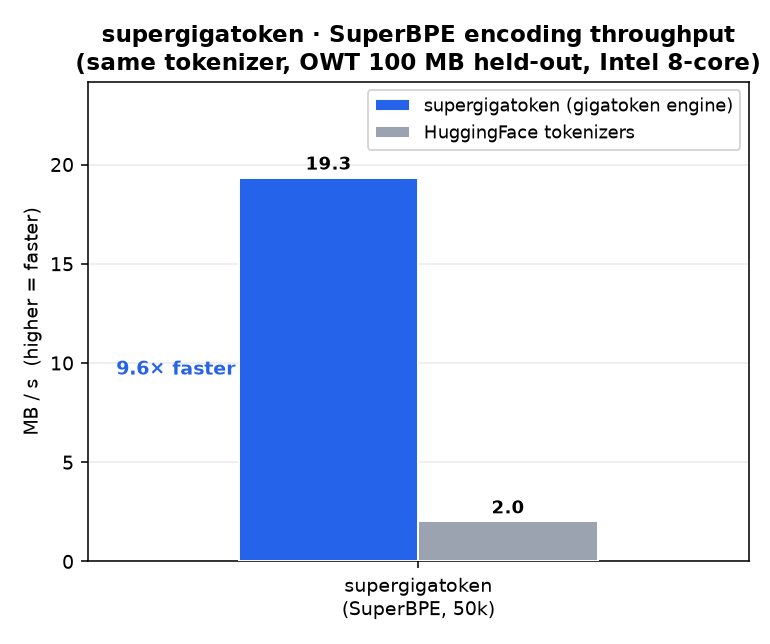
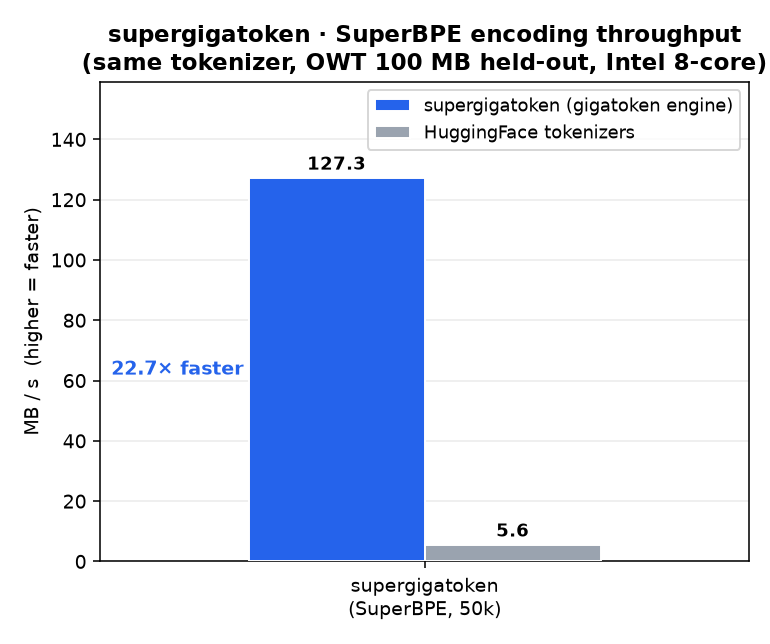
Refresh the SuperBPE throughput numbers after the two-level fixes
Regenerated through the existing generators (throughput.py --repeats 5
--released, report.py, plot_readme.py), never by hand. The Axis 2 table had
carried pre-two-level numbers since v1.

  ours_superbpe   19.34 -> 127.32 MB/s   (9.57x -> 22.7x vs HF)

Token counts are unchanged on the 99.7 MB slice -- 17603858 for ours_superbpe,
22194723 for ours_bpe, both exactly the v1 values -- which is an end-to-end
identity check on two orders of magnitude more text than the unit
differentials cover.

ours_bpe also reads 1849.95 MB/s against v1's 1005.75. Nothing in this round
touches the subword path (the merge-core refactor is a signature change with
no new clippy warnings and an unchanged long-pretoken miss path), and an 84%
swing is far too large for it, so this is the v1 baseline having been taken
under different machine conditions rather than a speedup. Recorded as "no
regression", not as a gain.

The released 128k SuperBPE is still gigatoken-unencodable: its
Split("\p{N}{1,3}| ?[^\s\p{L}\p{N}]{2,}[\r\n/]*| +(?!\S)", Isolated) is a
genuine partial splitter that from_split_regexes does not map.

README: the hand-maintained Axis 2 table and the SuperBPE known issues now
describe the two-level mechanism, where the remaining ~15x to the subword
path sits (split about evenly between the levels), and the camelCase cap that
still limits the superbpe_stage1 scheme.

diff --git a/README.md b/README.md
@@ -57,9 +57,13 @@ supergigatoken fast-encodes a SuperBPE tokenizer via a new `Superword` pretokeni
 
 | Tokenizer | supergigatoken | HF tokenizers | speedup |
 |---|---:|---:|---:|
-| supergigatoken (SuperBPE, 50k) | 19.3 MB/s | 2.0 MB/s | **9.6×** |
+| supergigatoken (SuperBPE, 50k) | 127.3 MB/s | 5.6 MB/s | **22.7×** |
 
-Both bars encode the *same* tokenizer; they differ only in which engine does the work. Lifting whitespace pretokenization turns each document into one long pretoken, so SuperBPE encoding is inherently slower than gigatoken's cached GB/s subword path — but it is still ~10× faster than HuggingFace. (For reference, HuggingFace encodes the released 128k SuperBPE at ~2.9 MB/s; supergigatoken can't fast-encode that checkpoint yet because it ships a `Split`-regex pretokenizer the loader doesn't map to `Superword` — see [Known Issues](#known-issues).)
+Both bars encode the *same* tokenizer; they differ only in which engine does the work.
+
+Lifting whitespace pretokenization makes each document one long pretoken, which costs SuperBPE every mechanism gigatoken exists for — the pretoken cache never hits, the SIMD boundary scanners have nothing to find, and the merge heap runs over thousands of byte symbols. Most of that is recoverable, because merge priority is the token ID and stage-2 merges are appended after stage-1's: the merge table splits at a threshold into stage-1 merges that cannot span a stage-1 pretoken boundary and superword merges that can. So encoding runs in **two levels** — split at stage-1 boundaries and encode each unit through the ordinary cached GB/s path with the prefix merges, then run the full table over the resulting token stream, which is ~4.5× shorter than the byte sequence. Level 2 in turn only merges across the boundaries a merge can actually cross, which the merge table alone determines; on this corpus that cuts 51% of them and leaves runs averaging 2 symbols. Output is bit-identical to the one-long-pretoken path, which the differential tests assert over the whole slice.
+
+SuperBPE encoding is still ~15× off the cached subword path (1850 MB/s at the same vocab), so there is more to recover — level 1 and level 2 currently split the remaining cost about evenly. (For reference, HuggingFace encodes the released 128k SuperBPE at ~5.3 MB/s; supergigatoken can't fast-encode that checkpoint yet because it ships a `Split`-regex pretokenizer the loader doesn't map to `Superword` — see [Known Issues](#known-issues).)
 
 ### Train your own
 
@@ -358,7 +362,8 @@ Supergigatoken builds on gigatoken (the fast encoder) and SuperBPE (the two-stag
 
 ### SuperBPE-specific
 * The fast `Superword` encoder currently loads SuperBPE tokenizers exported with a `ByteLevel(use_regex=False)` pretokenizer. The released 128k SuperBPE ships an explicit `Split`-regex pretokenizer that isn't mapped to `Superword` yet, so gigatoken can't fast-encode it (HuggingFace-only for now).
-* SuperBPE encoding lifts whitespace pretokenization, so each document is one long pretoken and the per-word cache doesn't apply — it's ~10× faster than HuggingFace but well below gigatoken's GB/s subword path. SIMD acceleration of the superword scheme is future work.
+* SuperBPE encoding lifts whitespace pretokenization, so each document is one long pretoken. Two-level encoding recovers most of the cached path (~23× faster than HuggingFace) but is still ~15× below gigatoken's GB/s subword path, with the remaining cost split about evenly between the two levels. Level 1 pays for splitting through an iterator rather than the SIMD two-phase fill, which needs the glued stage-1 splitter to become a real pretokenizer scheme; that is the next lever.
+* The level-1 splitter glues the pretokenizer boundaries a sub-threshold merge could otherwise span (whitespace runs, apostrophes, digit runs). A hazard it doesn't cover is safe but slow — it lowers the derived threshold, which moves work from level 1 to level 2. The `superbpe_stage1` scheme is still capped that way by `camelCase` letter-run splits (`" Mc"|"C"`, `" You"|"Tube"`), which will matter for any tokenizer genuinely trained with the original stage-1 regex.
 * Stage-2 training is O(n) in unit length; training large vocabs on hundreds of MB is minutes-scale. Our stage 1 is locked to the GPT-2 regex and stage 2 uses line-bounded units, so results are *outcome*-comparable to the original SuperBPE, not byte-identical merges.
 
 ---
